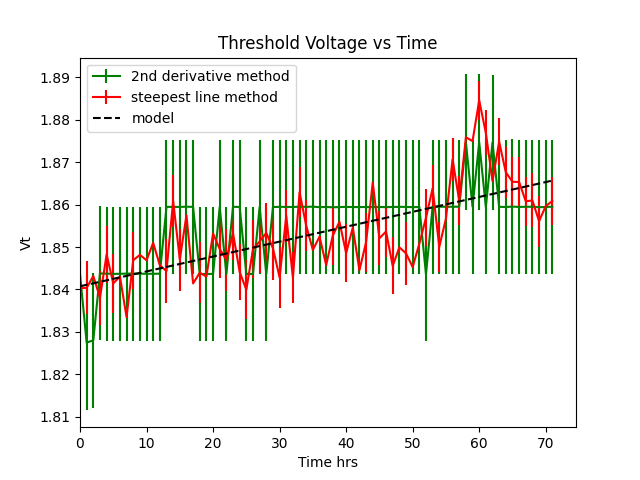
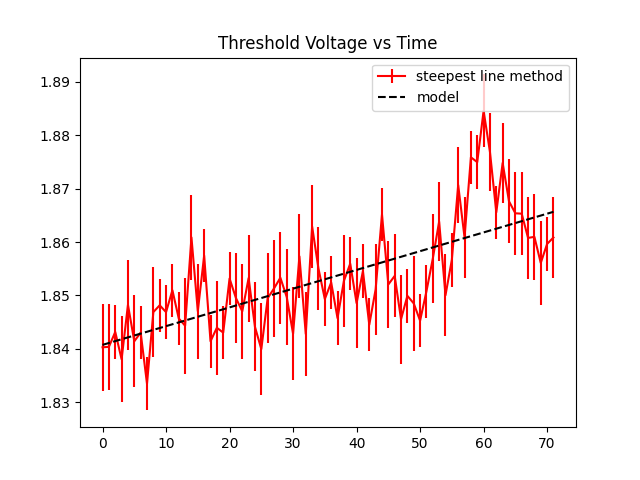
added chi^2 stats to steepest line method

diff --git a/analysis.py b/analysis.py
@@ -6,7 +6,7 @@ import scipy.stats as stats
 iv_graph = False
 steepest_line = False
 derivative = False
-dvt_over_time = True
+dvt_over_time = False
 lvt_over_time = True
 linear_fit = True
 
@@ -162,7 +162,7 @@ def plot_steepest_threshold_time(datasets, times=None, colour = "red", label="st
         f = lambda x : max_derivative * (x - voltages[max_derivative_index]) + currents[max_derivative_index]
         #error calculations
         x_intercept = (-currents[max_derivative_index] / max_derivative) + voltages[max_derivative_index]
-        error = np.sqrt((currents[max_derivative_index] / max_derivative) * np.sqrt((current_std[max_derivative_index] / currents[max_derivative_index])**2 + (gradient_err / max_derivative)**2)**2 + voltage_std[max_derivative_index]**2)
+        error = np.sqrt(0.005**2 + (currents[max_derivative_index] / max_derivative) * np.sqrt((current_std[max_derivative_index] / currents[max_derivative_index])**2 + (gradient_err / max_derivative)**2)**2 + voltage_std[max_derivative_index]**2)
         x_intercepts.append(x_intercept)
         errors.append(error)
     plt.errorbar(times, x_intercepts, yerr = errors, color = colour, label=label)
@@ -194,15 +194,20 @@ if dvt_over_time:
     plt.xlabel('Time hrs')
 if lvt_over_time:
     title = "Threshold Voltage vs Time"
-    threshold_voltages = plot_steepest_threshold_time(datasets)[0]
+    threshold_voltages = plot_steepest_threshold_time(datasets)
     times = range(0,len(datasets))
     if data_file2 != None:
         threshold_voltages.append(plot_steepest_threshold_time(datasets2, times=range(len(datasets), len(datasets) + len(datasets2)),colour = "Purple", label="steepest line method (no source)"))[0]
         times = range(0,len(datasets) + len(datasets2))
     if linear_fit:
-        z = np.polyfit(times, threshold_voltages, 1)
+        z = np.polyfit(times, threshold_voltages[0], 1)
         Y1p = np.poly1d(z)
         plt.errorbar(times, Y1p(times), fmt = '--', color = "black", label = 'model')
+        chi_2 = 0
+        for i in range(len(threshold_voltages[0])):
+            chi_2 += (threshold_voltages[0][i] - Y1p(times[i]))**2 /(threshold_voltages[1][i]**2)
+        print("chi^2:", chi_2)
+        print("Normalised chi^2:", chi_2 / (len(threshold_voltages[0]) - 2))
 
 #define file name
 if iv_graph:
